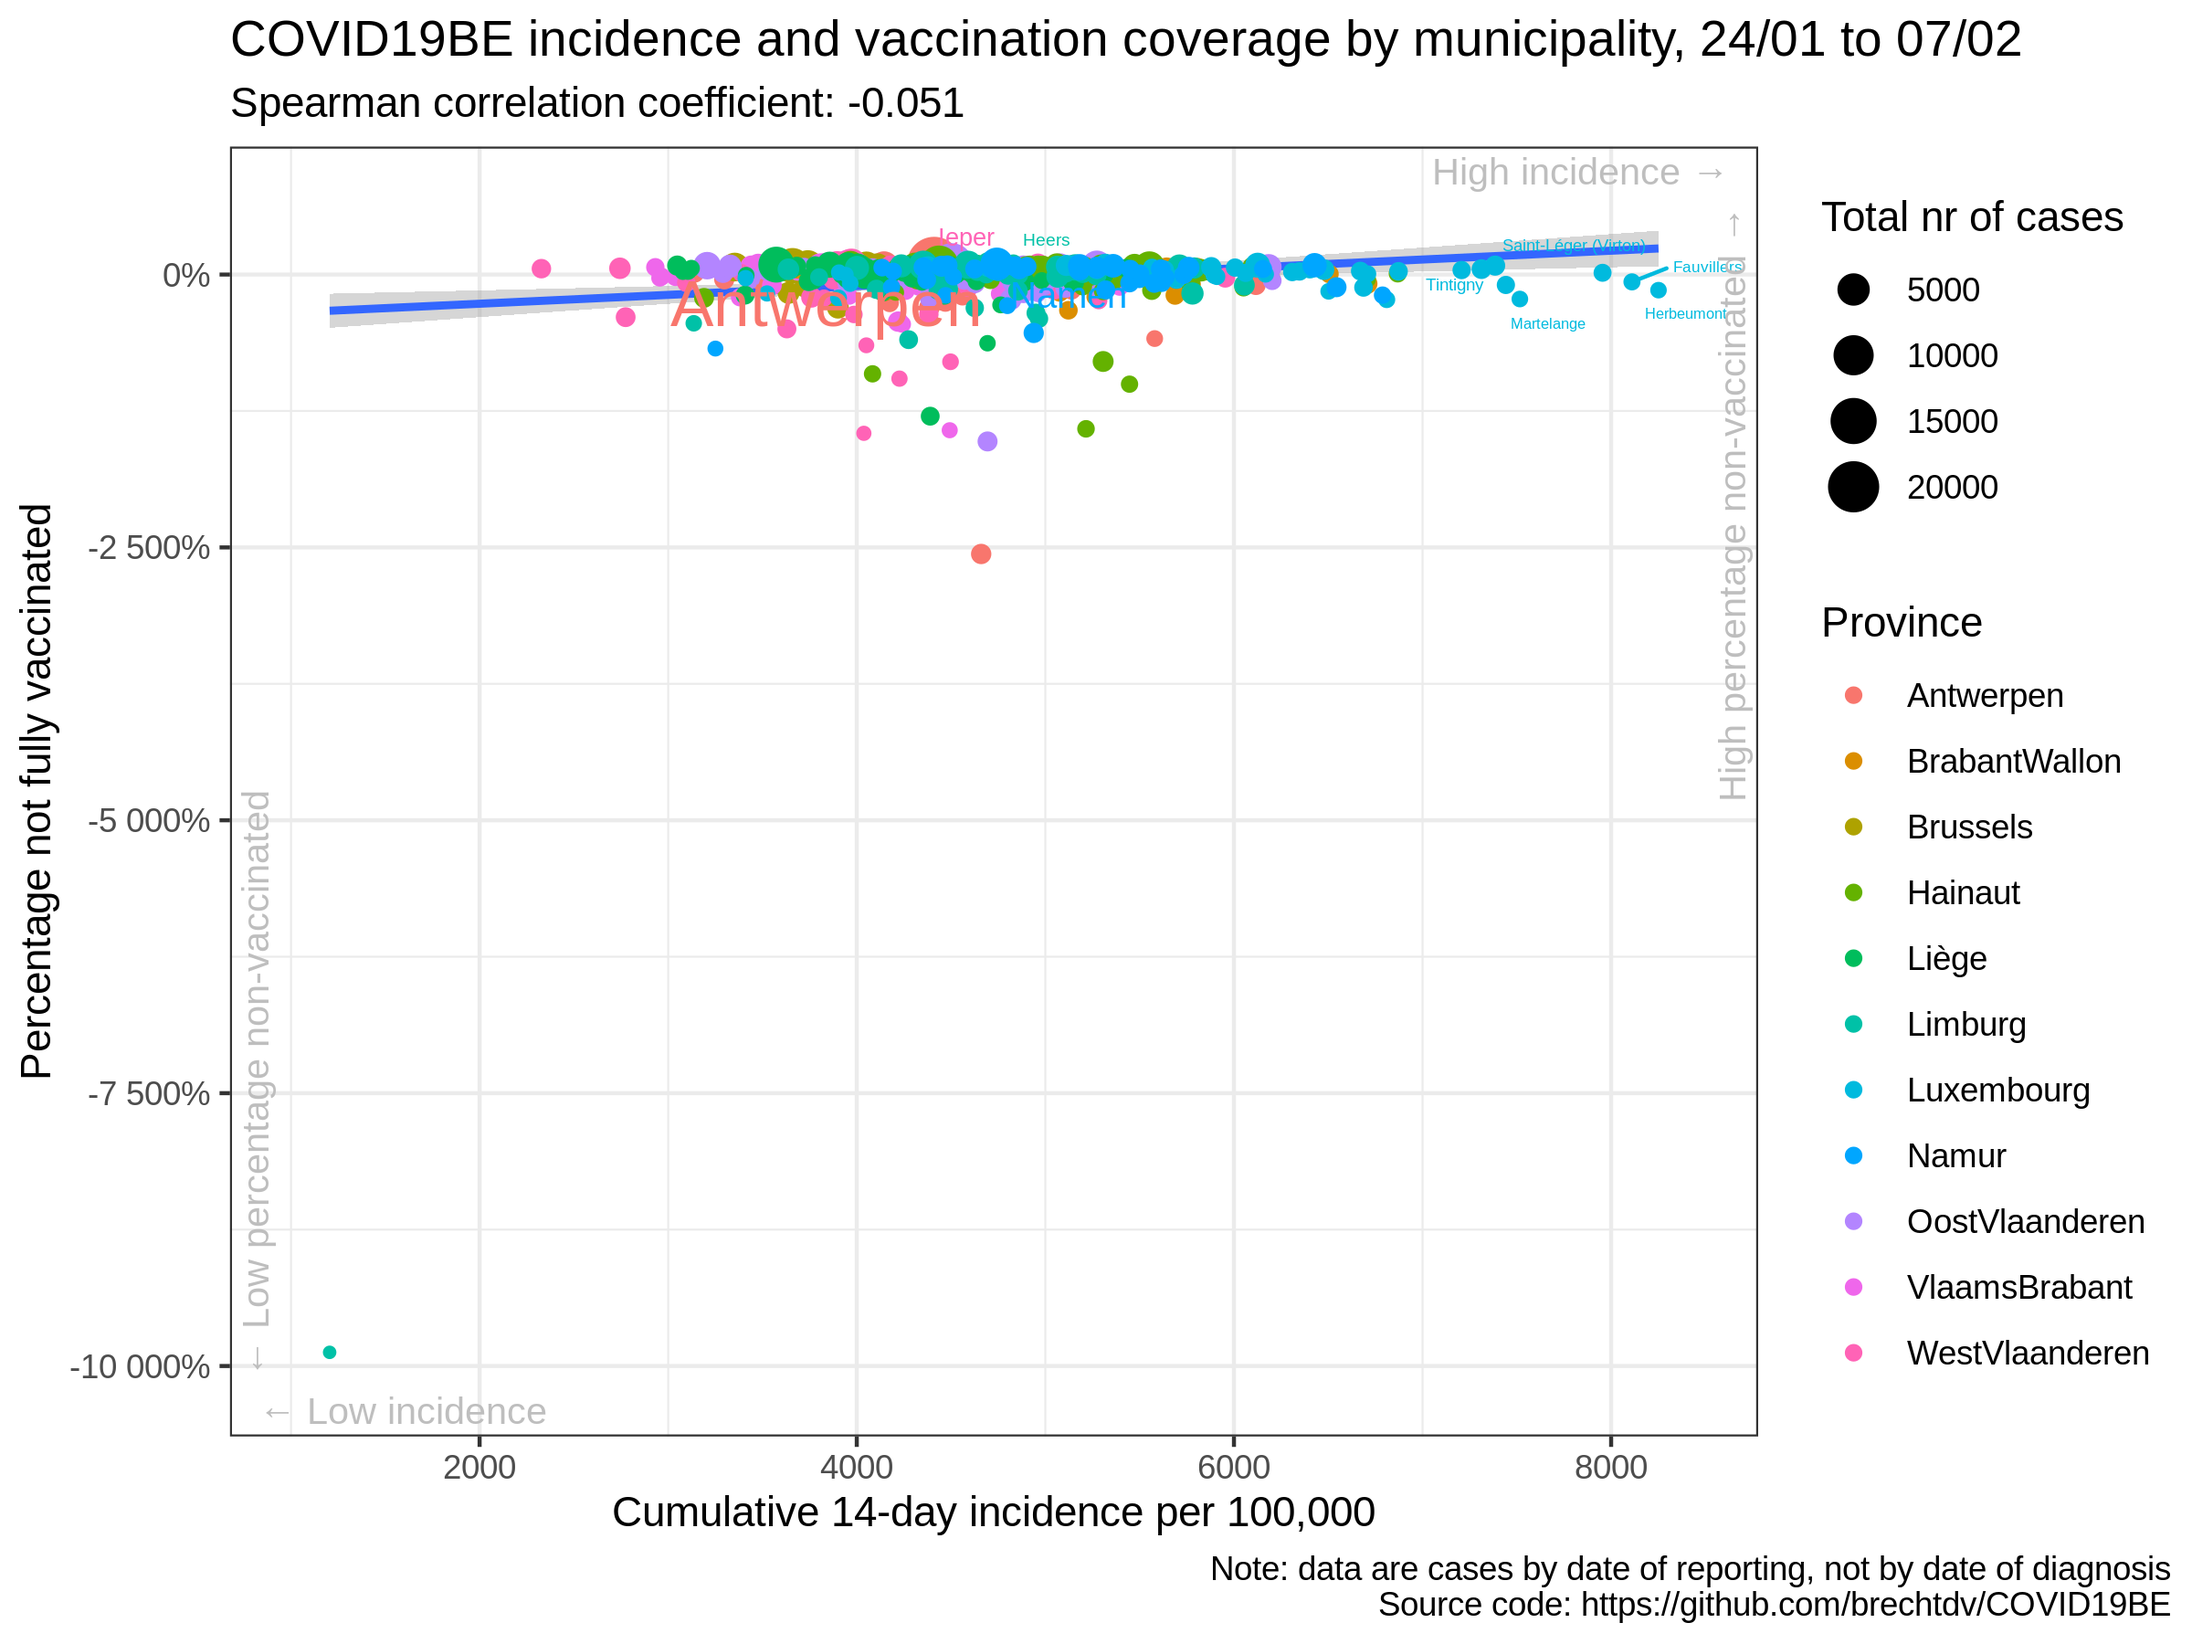
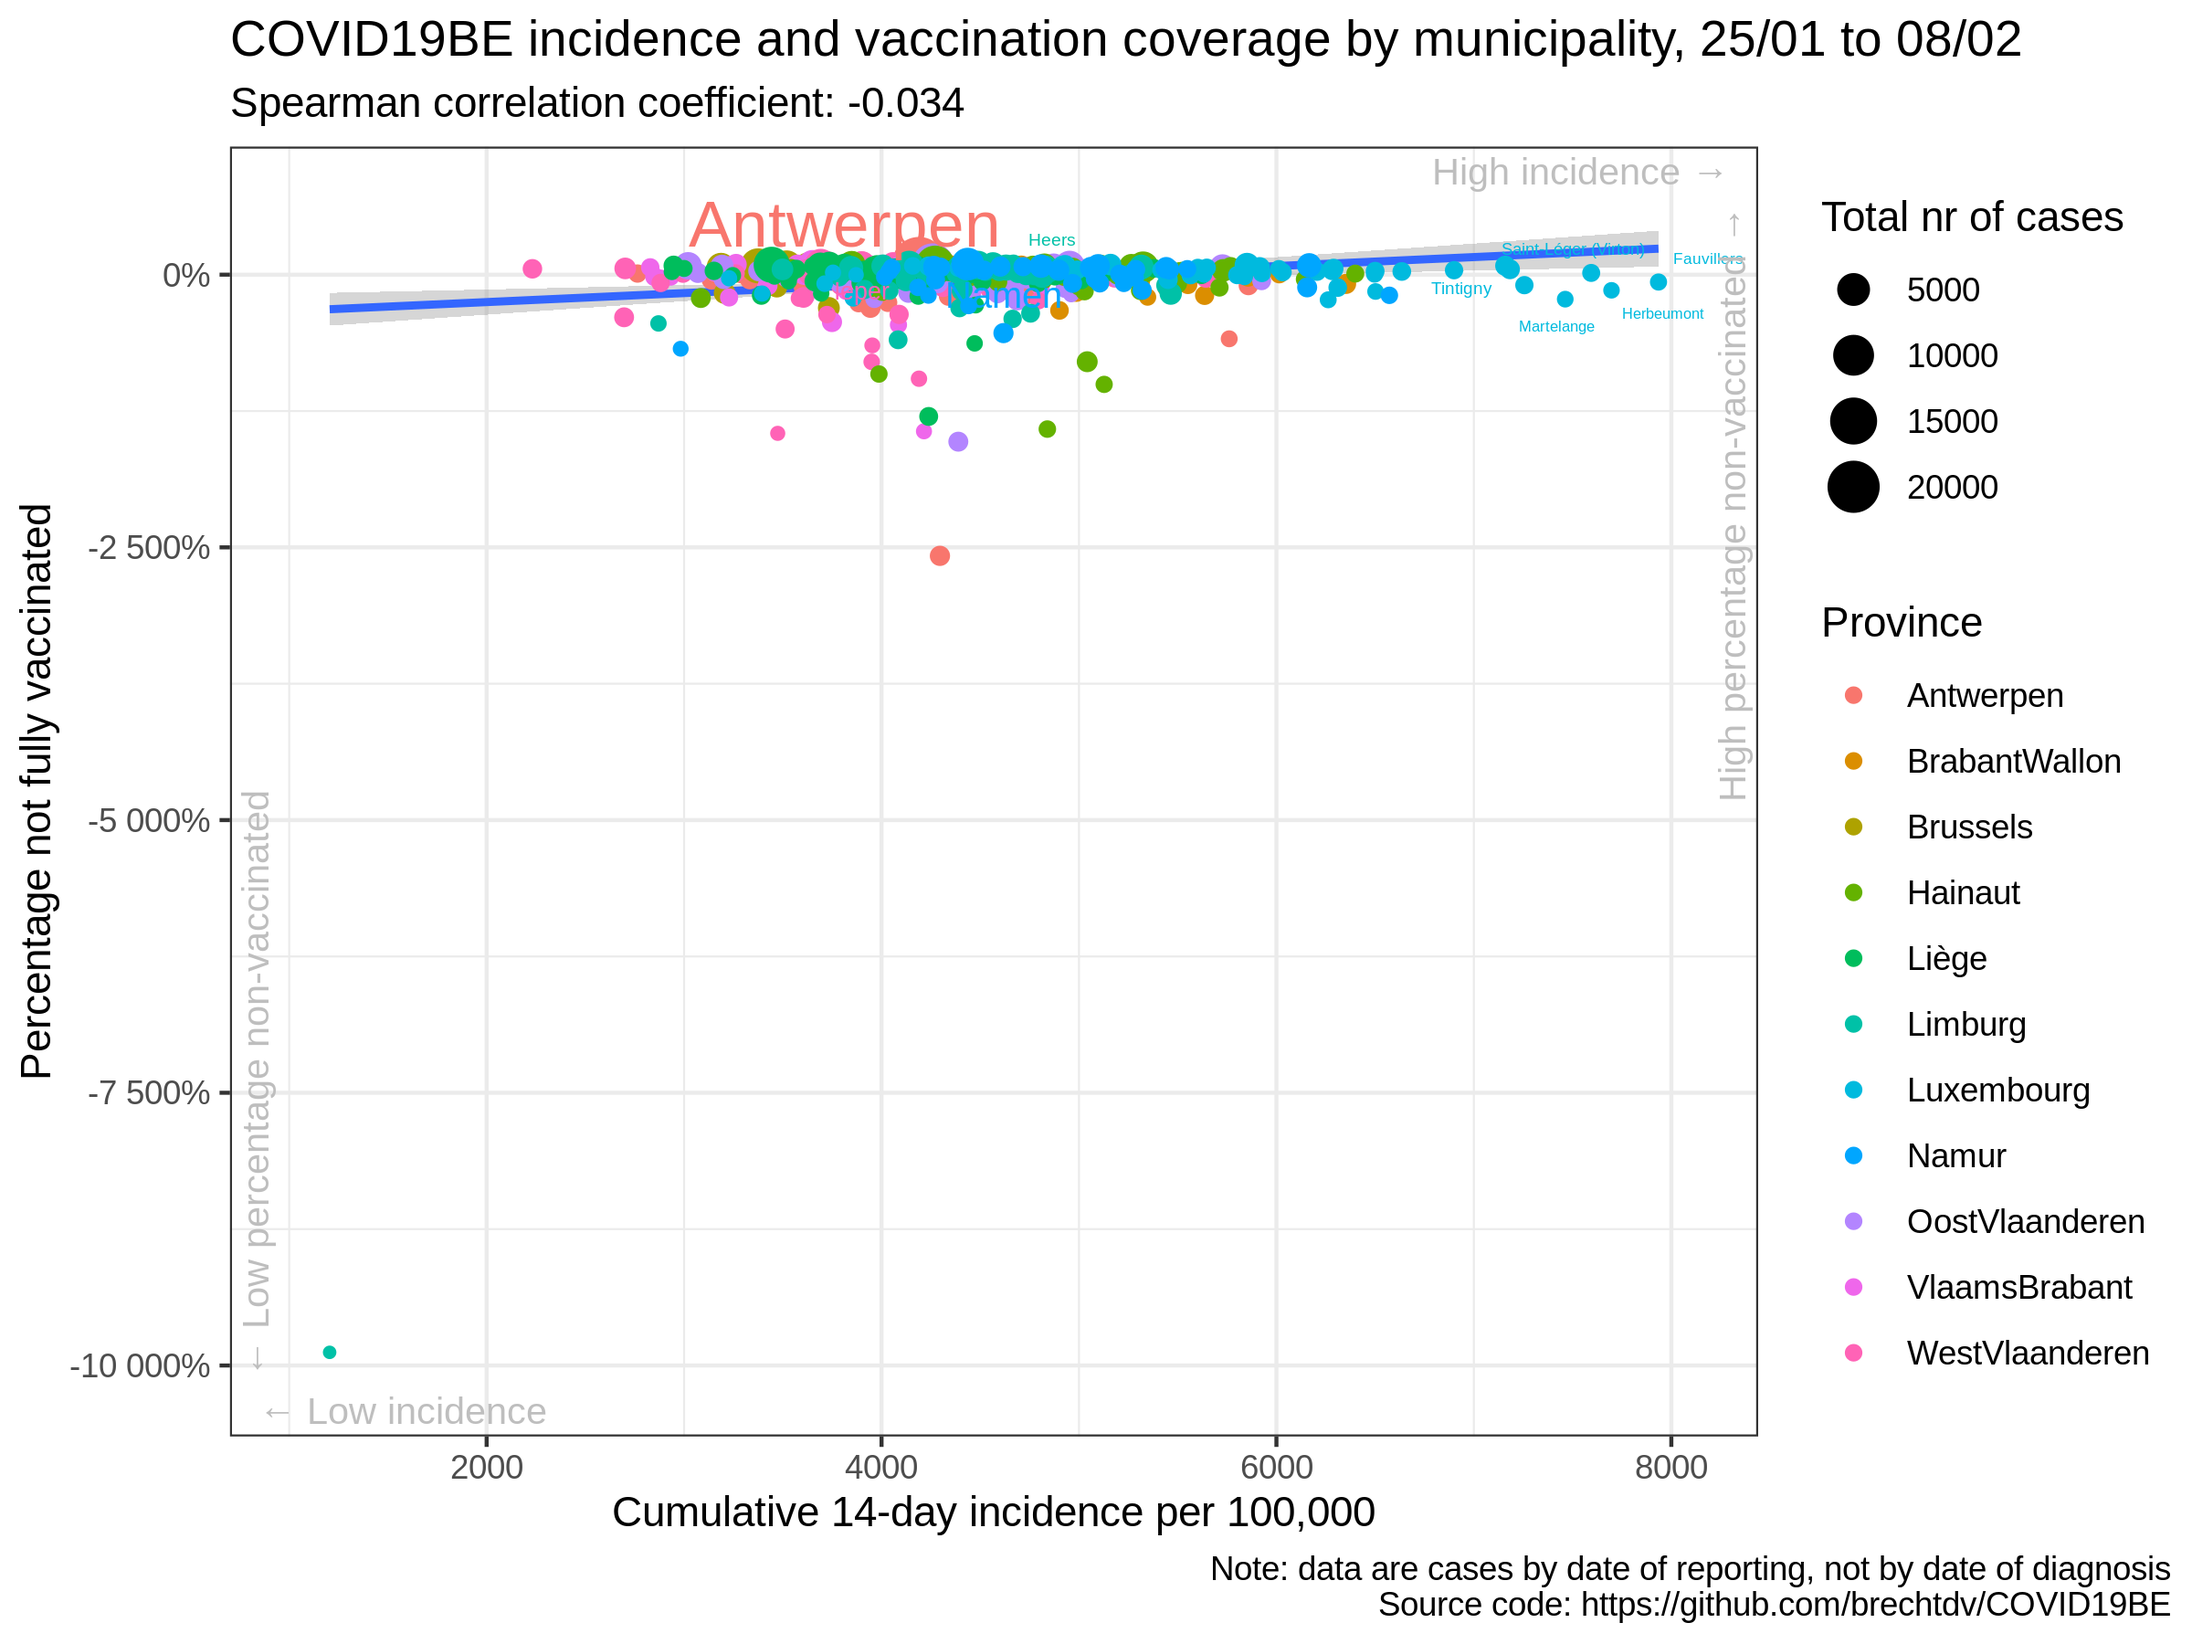
update situation

diff --git a/vaccination/README.md b/vaccination/README.md
@@ -17,35 +17,35 @@
 
 |                | estimate.rho | p.value |
 | :------------- | -----------: | ------: |
-| Antwerpen      |      \-0.083 |   0.495 |
-| BrabantWallon  |      \-0.486 |   0.011 |
-| Brussels       |      \-0.205 |   0.398 |
-| Hainaut        |      \-0.167 |   0.169 |
-| Liège          |      \-0.300 |   0.006 |
-| Limburg        |        0.097 |   0.541 |
-| Luxembourg     |      \-0.194 |   0.206 |
-| Namur          |      \-0.041 |   0.809 |
-| OostVlaanderen |      \-0.064 |   0.626 |
-| VlaamsBrabant  |      \-0.138 |   0.272 |
-| WestVlaanderen |        0.091 |   0.474 |
-| Belgium        |      \-0.051 |   0.220 |
+| Antwerpen      |      \-0.066 |   0.591 |
+| BrabantWallon  |      \-0.497 |   0.009 |
+| Brussels       |      \-0.246 |   0.309 |
+| Hainaut        |      \-0.140 |   0.252 |
+| Liège          |      \-0.263 |   0.016 |
+| Limburg        |        0.146 |   0.355 |
+| Luxembourg     |      \-0.170 |   0.270 |
+| Namur          |        0.027 |   0.873 |
+| OostVlaanderen |      \-0.080 |   0.540 |
+| VlaamsBrabant  |      \-0.131 |   0.298 |
+| WestVlaanderen |        0.103 |   0.418 |
+| Belgium        |      \-0.034 |   0.411 |
 
 ### Correlation cumulative incidence vs booster rate
 
 |                | estimate.rho | p.value |
 | :------------- | -----------: | ------: |
-| Antwerpen      |      \-0.074 |   0.543 |
-| BrabantWallon  |      \-0.490 |   0.010 |
-| Brussels       |      \-0.230 |   0.342 |
-| Hainaut        |      \-0.164 |   0.178 |
-| Liège          |      \-0.310 |   0.004 |
-| Limburg        |        0.097 |   0.542 |
-| Luxembourg     |      \-0.206 |   0.178 |
-| Namur          |      \-0.027 |   0.875 |
-| OostVlaanderen |      \-0.060 |   0.646 |
-| VlaamsBrabant  |      \-0.166 |   0.186 |
-| WestVlaanderen |        0.102 |   0.423 |
-| Belgium        |      \-0.040 |   0.335 |
+| Antwerpen      |      \-0.070 |   0.567 |
+| BrabantWallon  |      \-0.505 |   0.008 |
+| Brussels       |      \-0.275 |   0.253 |
+| Hainaut        |      \-0.137 |   0.260 |
+| Liège          |      \-0.275 |   0.011 |
+| Limburg        |        0.144 |   0.362 |
+| Luxembourg     |      \-0.178 |   0.248 |
+| Namur          |        0.036 |   0.834 |
+| OostVlaanderen |      \-0.078 |   0.554 |
+| VlaamsBrabant  |      \-0.154 |   0.219 |
+| WestVlaanderen |        0.107 |   0.397 |
+| Belgium        |      \-0.023 |   0.575 |
 
 ### Data source
 
